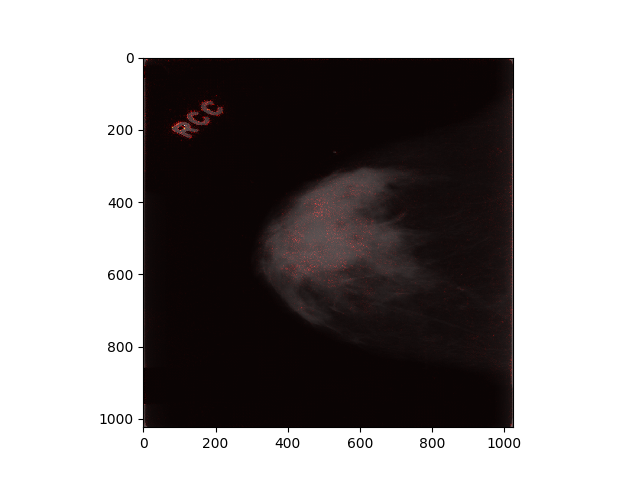
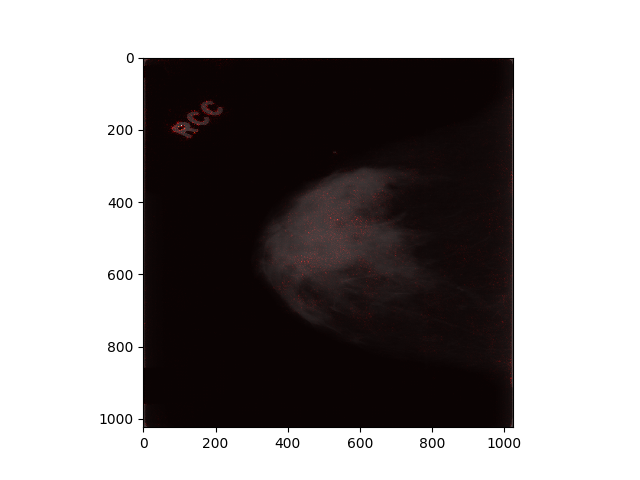
gradients scaled between 0 1 better images

Changed region(s): [[0.4375, 0.375, 0.5938, 0.5938], [0.25, 0.1875, 0.3438, 0.2812]]

diff --git a/visualize/saliency.py b/visualize/saliency.py
@@ -5,6 +5,7 @@ matplotlib.use('Agg')
 from matplotlib import pyplot as plt
 
 from util.util import print
+from util.image import normalize_between
 
 
 def get_gradient(model, x):
@@ -37,6 +38,7 @@ def get_gradient(model, x):
 
     gradient = gradient.abs_().mean(1) # 1 = channel dim, (-1, 1024, 1024)
     print("After processing (absval + mean):", gradient.size())
+
     return gradient
 
 
@@ -54,7 +56,7 @@ def save_saliency_and_image(tensor, image, savepath):
 
     # https://stackoverflow.com/questions/31877353/overlay-an-image-segmentation-with-numpy-and-matplotlib
     plt.imshow(image, cmap='gray')
-    plt.imshow(tensor, cmap='hot', alpha=0.6)
+    plt.imshow(tensor, cmap='hot', alpha=0.7)
     plt.savefig(savepath)
     print("Saved image to", savepath)
 
@@ -73,6 +75,7 @@ def create_saliency_overlay(model, imagepath, savepath):
     x = image.reshape(1, 1, 1024, 1024)
     raw_gradient = get_gradient(model, x)
     saliency_tensor = raw_gradient.numpy().reshape(1024, 1024)
+    saliency_tensor = normalize_between(saliency_tensor, 0, 1)
 
     save_saliency_and_image(saliency_tensor, image, savepath)
 
